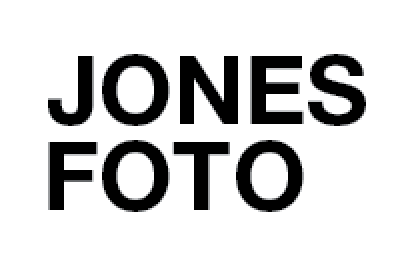
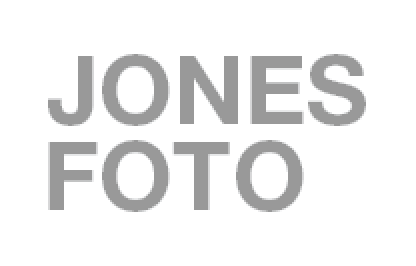
Updated associates

Changed region(s): [[0.0938, 0.1805, 0.9062, 0.4812], [0.0938, 0.5113, 0.75, 0.812]]

diff --git a/app/index.html b/app/index.html
@@ -249,13 +249,14 @@
             <p class="ian-callout">We take special pride in providing creative services to our partner, <a target="_blank" href="http://iansymmonds.org/">Ian Symmonds &amp; Associates</a>. This firm is by far the finest strategy and market research firm in the land. </p>
           </div>
           <div class="row">
-            <a target="_blank" href="http://jonesfoto.com/"><img alt="coming" class="img-responsive" src="images/jones.png"></a>
-            <a target="_blank" href="http://writingandediting.com/"><img alt="coming" class="img-responsive" src="images/gray.png"></a>
-            <a target="_blank" href="http://rnaphoto.com/"><img alt="coming" class="img-responsive grow" src="images/anderson.png"></a>
+            <a target="_blank" href="http://www.scottsuhrcreative.com/"><img alt="coming" class="img-responsive" src="images/suhr.png"></a>
             <a target="_blank" href="http://gailborendesign.com/"><img alt="coming" class="img-responsive" src="images/boren.png"></a>
+            <a target="_blank" href="http://rnaphoto.com/"><img alt="coming" class="img-responsive grow" src="images/anderson.png"></a>
+            <a target="_blank" href="http://writingandediting.com/"><img alt="coming" class="img-responsive" src="images/gray.png"></a>
+            <a target="_blank" href="http://jonesfoto.com/"><img alt="coming" class="img-responsive jones-logo" src="images/jones.png"></a>
             <a target="_blank" href="http://www.catacominc.com/"><img alt="coming" class="img-responsive" src="images/catalyst.png"></a>
             <a target="_blank" href="http://creative-exurbia.com/"><img alt="coming" class="img-responsive" src="images/creative.png"></a>
-            <a target="_blank" href="http://www.scottsuhrcreative.com/"><img alt="coming" class="img-responsive" src="images/suhr.png"></a>
+
           </div>
         </div>
       </div>

diff --git a/app/styles/main.scss b/app/styles/main.scss
@@ -88,6 +88,10 @@ nav {
   }
 }
 
+.jones-logo {
+  opacity: 0.7;
+}
+
 header {
   padding: 10rem;
 
